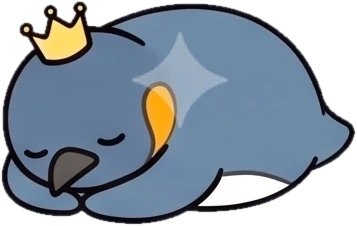
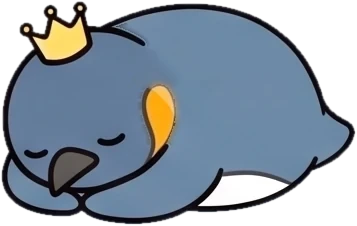
トップの見直し（プレビュー・未公開）
1. つくったもの（WORKS）を新設。16本すべての**実際のプレイ画面**を撮って並べた。
   これまでトップは「16本あります」と文字で書くだけで、作ったものを1枚も見せていなかった。
2. 事業紹介の絵を、抽象的な飾りから実物のスクリーンショットに差し替え。
3. 古い数字を修正（公開中のゲーム 11本→16本、事業紹介の「現在11本」も）。
4. 生成AIの星マークを消した（マスコットの寝姿・ゲームのバナー・ゲームのOG画像）。
5. スマホで横スクロールが発生していたのを修正
   （歩くペンギンの終点が left:88% で、狭い画面だと画面外にはみ出していた）。

⚠ このブランチは公開していない。本人が見て良ければ main に取り込む。

Changed region(s): [[0.3697, 0.1239, 0.6471, 0.5575], [0.3081, 0.0929, 0.3697, 0.1549], [0.4622, 0.5575, 0.493, 0.6195]]

diff --git a/index.html b/index.html
@@ -139,7 +139,9 @@
                  background:linear-gradient(90deg, transparent, rgba(255,255,255,.85)); }
   .tobo.go { animation:tobo-run 1.2s cubic-bezier(.25,.6,.35,1) forwards; }
   .tobo.go .trail { animation:tobo-trail 1.5s ease-out forwards; }
-  @keyframes tobo-run { to { left:88%; } }
+  /* ⚠ 88% だと画面幅が狭いとき（スマホ）にペンギンの右端がはみ出し、
+     ページ全体が横スクロールできてしまう。幅から自分の分を引いて止める。 */
+  @keyframes tobo-run { to { left:calc(100% - 108px); } }
   @keyframes tobo-trail { 0%{width:0; opacity:1} 60%{width:26vw; opacity:.9} 100%{width:34vw; opacity:0} }
   .tobo.bye { transition:opacity .4s; opacity:0; }
   .tobo.stand img { transform:none; }
@@ -240,6 +242,13 @@
                border-radius:10px; padding:10px 22px; transition:opacity .15s; }
   .band .cta:hover { opacity:.85; }
   .band .pv { display:flex; align-items:center; justify-content:center; min-height:120px; border-radius:14px; }
+  /* 事業紹介の絵を、飾りから**実物のスクリーンショット**に差し替えた（2026-08-11）。
+     前は抽象的な四角と線で、中身を1つも見せていなかった。 */
+  .band .pv.shotpv { padding:0; overflow:hidden; border-radius:14px; }
+  .band .pv.shotpv img { display:block; width:100%; height:auto; border-radius:14px; }
+  .band-g .pv.shotpv { background:#131019; border:1px solid var(--g-line); }
+  .band-b .pv.shotpv, .band-w .pv.shotpv { padding:0; }
+
   /* ① games = 夜のアーケード */
   .band-g { background:var(--g-bg); color:#EFEAF6; }
   .band-g h3 { font-family:"DotGothic16",monospace; font-weight:400; color:var(--g-acc); letter-spacing:.04em; }
@@ -334,6 +343,47 @@
 
   /* ---- ヒーロー直下の3つの入口（作品への最短の道） ---- */
   .entry { background:#14151a; padding:34px 0 40px; }
+
+  /* ── つくったもの（実際のプレイ画面） ───────────────── */
+  .works { background:#101218; padding:56px 0 60px; color:var(--txt-d); }
+  .works .in { max-width:1120px; margin:0 auto; padding:0 clamp(16px,4vw,40px); }
+  .works .sec-en { display:block; font-size:11.5px; letter-spacing:.22em; font-weight:bold;
+    color:var(--acc); margin-bottom:6px; }
+  .works h2 { font-size:clamp(22px,3vw,28px); margin:0 0 6px; letter-spacing:.02em; }
+  .works .lead { color:#9a988f; font-size:14px; margin:0 0 24px; line-height:1.85; }
+  .wgrid { display:grid; grid-template-columns:repeat(4,1fr); gap:16px; margin:0; padding:0;
+    list-style:none; }
+  .wgrid > li { min-width:0; }
+  .wk { display:block; text-decoration:none; color:inherit; background:#171a22;
+    border:1px solid #262a35; border-radius:12px; overflow:hidden;
+    transition:transform .22s ease, border-color .22s ease; height:100%; }
+  .wk:hover, .wk:focus-visible { transform:translateY(-4px); border-color:var(--acc); }
+  .wk .shot { display:block; width:100%; height:auto; aspect-ratio:3/2;
+    object-fit:cover;
+    object-position:top center; background:#0b0d12;
+    border-bottom:1px solid #262a35; transition:opacity .22s; }
+  .wk:hover .shot { opacity:.88; }
+  .wk .tx { padding:12px 14px 14px; }
+  .wk .nm { font-size:14.5px; font-weight:bold; line-height:1.5; display:block; }
+  .wk .ds { font-size:12.5px; color:#9a988f; line-height:1.7; margin-top:5px; display:block; }
+  .wk .mt { font-size:11.5px; color:#7e7c74; margin-top:8px; display:block;
+    font-variant-numeric:tabular-nums; }
+  .works .wmore { display:inline-flex; align-items:center; gap:8px; margin-top:22px;
+    background:none; border:1px solid #333846; border-radius:999px; padding:10px 20px;
+    color:var(--acc); font-size:13.5px; font-weight:bold; font-family:inherit; cursor:pointer;
+    transition:background .2s, border-color .2s; }
+  .works .wmore:hover { background:#1b1f28; border-color:var(--acc); }
+  .works .wmore .ch { transition:transform .25s; }
+  .works .wmore[aria-expanded="true"] .ch { transform:rotate(180deg); }
+  .wgrid:not(.open) > li:nth-child(n+9) { display:none; }
+  .works .allink { display:inline-block; margin:22px 0 0 16px; color:var(--acc);
+    font-size:13.5px; font-weight:bold; text-decoration:none; }
+  .works .allink:hover { text-decoration:underline; }
+  @media (max-width:1000px){ .wgrid { grid-template-columns:repeat(3,1fr); } }
+  @media (max-width:760px){ .wgrid { grid-template-columns:repeat(2,1fr); gap:12px; }
+    .works { padding:40px 0 44px; } .wk .ds { display:none; } }
+  @media (prefers-reduced-motion: reduce){ .wk, .wk .shot, .works .wmore .ch { transition:none; } }
+
   .entry .in { max-width:1120px; margin:0 auto; padding:0 clamp(16px,4vw,40px);
                display:grid; grid-template-columns:repeat(4,1fr); gap:16px; }
   .ent { display:flex; flex-direction:column; gap:7px; text-decoration:none;
@@ -419,6 +469,99 @@
   </div>
 </section>
 
+<!-- つくったもの（実際のプレイ画面） -->
+<section class="works" id="works" data-acc="#E8A33D" data-k="works">
+  <div class="in">
+    <span class="sec-en">WORKS</span>
+    <h2 class="sec jp-head reveal">つくったもの</h2>
+    <p class="lead reveal">下の画像は説明用の絵ではなく、<b>実際に動いている画面</b>です。どれもブラウザだけで完結し、登録もインストールも要りません。</p>
+    <ul class="wgrid reveal" id="wGrid">
+      <li><a class="wk" href="/hinan-run/">
+        <img class="shot" src="/assets/thumbs/hinan-run.webp" width="800" height="533"
+             alt="避難ラン × デッキ のプレイ画面" loading="eager" decoding="async">
+        <span class="tx"><span class="nm">避難ラン × デッキ</span><span class="ds">走って集めた物資が、そのまま後半の手札になる</span><span class="mt">8分・登録なしで遊べます</span></span>
+      </a></li>
+      <li><a class="wk" href="/study-type/">
+        <img class="shot" src="/assets/thumbs/study-type.webp" width="800" height="533"
+             alt="勉強のつまずき方診断 のプレイ画面" loading="eager" decoding="async">
+        <span class="tx"><span class="nm">勉強のつまずき方診断</span><span class="ds">15問で、いま詰まっている場所と今日やる1つ</span><span class="mt">2分・登録なしで遊べます</span></span>
+      </a></li>
+      <li><a class="wk" href="/tsumi-battle/">
+        <img class="shot" src="/assets/thumbs/tsumi-battle.webp" width="800" height="533"
+             alt="積みバトル のプレイ画面" loading="eager" decoding="async">
+        <span class="tx"><span class="nm">積みバトル</span><span class="ds">ペンギンを積んで、先に崩した方が負け</span><span class="mt">5分・登録なしで遊べます</span></span>
+      </a></li>
+      <li><a class="wk" href="/kage-ate/">
+        <img class="shot" src="/assets/thumbs/kage-ate.webp" width="800" height="533"
+             alt="かげ当てパズル のプレイ画面" loading="eager" decoding="async">
+        <span class="tx"><span class="nm">かげ当てパズル</span><span class="ds">光の向きから影の形を当てろ</span><span class="mt">3分・登録なしで遊べます</span></span>
+      </a></li>
+      <li><a class="wk" href="/kukan-test/">
+        <img class="shot" src="/assets/thumbs/kukan-test.webp" width="800" height="533"
+             alt="空間認識偏差値テスト のプレイ画面" loading="lazy" decoding="async">
+        <span class="tx"><span class="nm">空間認識偏差値テスト</span><span class="ds">頭の中で3Dを回せるか</span><span class="mt">3分・登録なしで遊べます</span></span>
+      </a></li>
+      <li><a class="wk" href="/memory-test/">
+        <img class="shot" src="/assets/thumbs/memory-test.webp" width="800" height="533"
+             alt="記憶力テスト のプレイ画面" loading="lazy" decoding="async">
+        <span class="tx"><span class="nm">記憶力テスト</span><span class="ds">数字は何桁、場所は何手まで覚えられるか</span><span class="mt">3分・登録なしで遊べます</span></span>
+      </a></li>
+      <li><a class="wk" href="/answer-shoot/">
+        <img class="shot" src="/assets/thumbs/answer-shoot.webp" width="800" height="533"
+             alt="アンサーシュート のプレイ画面" loading="lazy" decoding="async">
+        <span class="tx"><span class="nm">アンサーシュート</span><span class="ds">答えがわかっても届けなきゃ正解じゃない</span><span class="mt">5分・登録なしで遊べます</span></span>
+      </a></li>
+      <li><a class="wk" href="/yomiate/">
+        <img class="shot" src="/assets/thumbs/yomiate.webp" width="800" height="533"
+             alt="ヨミアテ のプレイ画面" loading="lazy" decoding="async">
+        <span class="tx"><span class="nm">ヨミアテ</span><span class="ds">情報を「買う」数字当て</span><span class="mt">5分・登録なしで遊べます</span></span>
+      </a></li>
+      <li><a class="wk" href="/untetris/">
+        <img class="shot" src="/assets/thumbs/untetris.webp" width="800" height="533"
+             alt="つみおろし のプレイ画面" loading="lazy" decoding="async">
+        <span class="tx"><span class="nm">つみおろし</span><span class="ds">逆向きテトリス、積んだ順を暴け</span><span class="mt">4分・登録なしで遊べます</span></span>
+      </a></li>
+      <li><a class="wk" href="/monty/">
+        <img class="shot" src="/assets/thumbs/monty.webp" width="800" height="533"
+             alt="モンティホール100連 のプレイ画面" loading="lazy" decoding="async">
+        <span class="tx"><span class="nm">モンティホール100連</span><span class="ds">「変える」となぜ2倍勝てるのか</span><span class="mt">3分・登録なしで遊べます</span></span>
+      </a></li>
+      <li><a class="wk" href="/toru-card/">
+        <img class="shot" src="/assets/thumbs/toru-card.webp" width="800" height="533"
+             alt="そのカード、取る？ のプレイ画面" loading="lazy" decoding="async">
+        <span class="tx"><span class="nm">そのカード、取る？</span><span class="ds">デッキ構築の直感を1万回シミュで検算</span><span class="mt">4分・登録なしで遊べます</span></span>
+      </a></li>
+      <li><a class="wk" href="/birthday-paradox/">
+        <img class="shot" src="/assets/thumbs/birthday-paradox.webp" width="800" height="533"
+             alt="誕生日のパラドックス のプレイ画面" loading="lazy" decoding="async">
+        <span class="tx"><span class="nm">誕生日のパラドックス</span><span class="ds">23人で50%が信じられない人へ</span><span class="mt">3分・登録なしで遊べます</span></span>
+      </a></li>
+      <li><a class="wk" href="/takarakuji-ev/">
+        <img class="shot" src="/assets/thumbs/takarakuji-ev.webp" width="800" height="533"
+             alt="宝くじの期待値 のプレイ画面" loading="lazy" decoding="async">
+        <span class="tx"><span class="nm">宝くじの期待値</span><span class="ds">1万人が同じだけ買ったら何が起きるか</span><span class="mt">3分・登録なしで遊べます</span></span>
+      </a></li>
+      <li><a class="wk" href="/gacha-sim/">
+        <img class="shot" src="/assets/thumbs/gacha-sim.webp" width="800" height="533"
+             alt="1万人ガチャシミュレータ のプレイ画面" loading="lazy" decoding="async">
+        <span class="tx"><span class="nm">1万人ガチャシミュレータ</span><span class="ds">「平均90連」の裏の地獄と天国</span><span class="mt">3分・登録なしで遊べます</span></span>
+      </a></li>
+      <li><a class="wk" href="/yomikiri/">
+        <img class="shot" src="/assets/thumbs/yomikiri.webp" width="800" height="533"
+             alt="ヨミキリ のプレイ画面" loading="lazy" decoding="async">
+        <span class="tx"><span class="nm">ヨミキリ</span><span class="ds">あなたの癖を学習する限定ジャンケン</span><span class="mt">5分・登録なしで遊べます</span></span>
+      </a></li>
+      <li><a class="wk" href="/damashi-ai/">
+        <img class="shot" src="/assets/thumbs/damashi-ai.webp" width="800" height="533"
+             alt="AIを騙せ！ のプレイ画面" loading="lazy" decoding="async">
+        <span class="tx"><span class="nm">AIを騙せ！</span><span class="ds">騙すとその場で学習して強くなる</span><span class="mt">5分・登録なしで遊べます</span></span>
+      </a></li>
+    </ul>
+    <div><button class="wmore" id="wMore" type="button" aria-expanded="false"
+      aria-controls="wGrid" hidden>のこりも見る<span class="ch">▾</span></button><a class="allink" href="/games/">一覧ページで見る →</a></div>
+  </div>
+</section>
+
 <!-- 2. ニュース -->
 <section class="news" id="news" data-acc="#E8A33D" data-k="news">
   <div class="in">
@@ -463,7 +606,7 @@
     <h2 class="sec jp-head reveal">D-studyLabとは</h2>
     <p class="lead reveal">「読むよりさわった方が早い」——むずかしい概念を、遊べる・動くかたちにして理解する。それがこのラボの原点です。研究も、ゲームも、ウェブサイトも、根っこは同じ。考えたら作る、作ったら出す、を繰り返しています。</p>
     <div class="stats">
-      <div class="stat reveal"><div class="v">11<small>本</small></div><div class="k">公開中のブラウザゲーム</div></div>
+      <div class="stat reveal"><div class="v">16<small>本</small></div><div class="k">公開中のブラウザゲーム</div></div>
       <div class="stat reveal"><div class="v">3<small>日に1本</small></div><div class="k">ミニゲームの制作サイクル</div></div>
       <div class="stat reveal"><div class="v">2<small>サイト</small></div><div class="k">企画から運営まで自前</div></div>
     </div>
@@ -490,10 +633,12 @@
         <h3>ミニゲームゲームズ</h3>
         <p>3日に1本のペースで増える、ブラウザで遊べるミニゲームの屋台。</p>
         <p>空間認識・確率・AIとの読み合いを、3分で体感できる形に。</p>
-        <p>全部無料・インストール不要・スマホOK。現在11本。</p>
+        <p>全部無料・インストール不要・スマホOK。現在16本。</p>
         <a class="cta" href="/games/">▶ 遊びに行く</a>
       </div>
-      <div class="pv reveal" aria-hidden="true"><div class="px"></div></div>
+      <div class="pv shotpv reveal"><img src="/assets/thumbs/pv-games.webp" width="818" height="552"
+        alt="実際に動いているミニゲーム4本の画面（積みバトル・かげ当てパズル・ヨミキリ・空間認識テスト）"
+        loading="lazy" decoding="async"></div>
     </div>
     <div class="dweller pg-bandwalk" id="pgBandWalk" aria-hidden="true"><img src="/assets/mascot/walk.webp" alt="" loading="lazy" decoding="async"></div>
   </section>
@@ -505,7 +650,8 @@
         <p>飲むもの・作るもの、どちらも「実際にやってみた」ことだけを書いています。</p>
         <a class="cta" href="/blog/">▶ 読みに行く</a>
       </div>
-      <div class="pv reveal" aria-hidden="true"><div class="paper-pv"></div></div>
+      <div class="pv shotpv reveal"><img src="/assets/thumbs/pv-blog.webp" width="818" height="545"
+        alt="ブログ記事「モンティホール問題」の実際のページ" loading="lazy" decoding="async"></div>
     </div>
     <div class="dweller pg-doze" id="pgDoze" aria-hidden="true">
       <img class="f0" src="/assets/mascot/sleep.webp" alt="" loading="lazy" decoding="async">
@@ -521,7 +667,8 @@
         <p>作って動かしているサイトの実例つき。難しい言葉は使いません。</p>
         <a class="cta" href="/web/">▶ 相談してみる</a>
       </div>
-      <div class="pv reveal" aria-hidden="true"><div class="win"></div></div>
+      <div class="pv shotpv reveal"><img src="/assets/thumbs/pv-web.webp" width="818" height="545"
+        alt="制作サンプル（架空の食堂）の実際のページ" loading="lazy" decoding="async"></div>
     </div>
     <div class="dweller pg-greet2" id="pgGreet2" aria-hidden="true"><img src="/assets/mascot/greet.webp" alt="" loading="lazy" decoding="async"></div>
   </section>
@@ -648,6 +795,26 @@
 
   // --- 各セクションの住人（§17.2・トリガー1回型はここ／ループ型はframe内） ---
   const $g = id => document.getElementById(id);
+  // --- つくったもの：既定は8本、ボタンで全部 ---
+  (() => {
+    const ul = $g('wGrid'), btn = $g('wMore');
+    if (!ul || !btn) return;
+    const SHOWN = 8, rest = ul.children.length - SHOWN;
+    if (rest <= 0) { btn.remove(); return; }
+    btn.hidden = false;
+    const label = () => btn.firstChild.nodeValue =
+      ul.classList.contains('open') ? '最初の8本だけ表示' : `のこり${rest}本も見る`;
+    label();
+    btn.addEventListener('click', () => {
+      const opening = !ul.classList.contains('open');
+      ul.classList.toggle('open', opening);
+      btn.setAttribute('aria-expanded', String(opening));
+      label();
+      if (!opening) document.getElementById('works')
+        .scrollIntoView({ behavior: reduce ? 'auto' : 'smooth', block: 'start' });
+    });
+  })();
+
   // --- ニュースの「もっと見る」（既定は6件だけ表示） ---
   (() => {
     const ul = $g('newsList'), btn = $g('newsMore');
